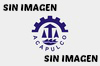
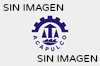
implementando placeholder para imagenes a todo el proyecto

Changed region(s): [[0.36, 0.8182, 0.99, 0.9394], [0.03, 0.0606, 0.66, 0.1818]]

diff --git a/administrador/templates/publicaciones.html b/administrador/templates/publicaciones.html
@@ -40,9 +40,13 @@
 						<div class="col-sm-6 col-md-3">
 						    <a class="thumbnail recent" href="/publicaciones/{{ publicacion.id }}">
 						      <span class="news-date">{{ publicacion.fecha|date:"d M" }}</span>
-						      	{% thumbnail publicacion.imagen "562x300" crop="center" as im %}
-				      				<img src="{{ im.url }}" alt="{{ publicacion.titulo }}">
-				      			{% endthumbnail %}
+						      	{% if publicacion.imagen %}
+							      	{% thumbnail publicacion.imagen "562x300" crop="center" as im %}
+					      				<img src="{{ im.url }}" alt="{{ publicacion.titulo }}" />
+					      			{% endthumbnail %}
+					      		{% else %}
+					      			<img src="{% static "/img/placeholder.jpg" %}" /> 
+					      		{% endif %}
 						      	<div class="caption">
 						        	<h4 class="text-red">{{ publicacion.titulo }}</h4>
 						         	<div class="new-content">
@@ -66,9 +70,13 @@
 						<div class="col-sm-6 col-md-3">
 						    <a class="thumbnail" href="/publicaciones/{{ publicacion.id }}">
 						      <span class="news-date">{{ publicacion.fecha|date:"d M" }}</span>
-						      	{% thumbnail publicacion.imagen "750x400" crop="center" as im %}
-				      				<img src="{{ im.url }}" alt="{{ publicacion.titulo }}">
-				      			{% endthumbnail %}
+						      	{% if publicacion.imagen %}
+							      	{% thumbnail publicacion.imagen "562x300" crop="center" as im %}
+					      				<img src="{{ im.url }}" alt="{{ publicacion.titulo }}" />
+					      			{% endthumbnail %}
+					      		{% else %}
+					      			<img src="{% static "/img/placeholder.jpg" %}" /> 
+					      		{% endif %}
 						      	<div class="caption">
 						        	<h4 class="text-red">{{ publicacion.titulo }}</h4>
 						         	<div class="new-content">

diff --git a/administrador/templates/publicacion.html b/administrador/templates/publicacion.html
@@ -27,9 +27,13 @@
 				<h2 class="text-red">{{ publicacion.titulo }}</h2>
 
 				<p></p>
-				{% thumbnail publicacion.imagen "800x400" crop="center" as im %}
-					<img src="{{ im.url }}" class="autoWidth" alt="{{ publicacion.titulo }}">
-				{% endthumbnail %}
+				{% if publicacion.imagen %}
+			      	{% thumbnail publicacion.imagen "800x400" crop="center" as im %}
+	      				<img src="{{ im.url }}" class="autoWidth" alt="{{ publicacion.titulo }}">
+	      			{% endthumbnail %}
+	      		{% else %}
+	      			<img src="{% static "/img/placeholder.jpg" %}" /> 
+	      		{% endif %}
 				<div class="text-justify margin-top-low">
 					<div class="row margin-bottom">
 						<div class="col-sm-6">{{ publicacion.fecha }}</div>
